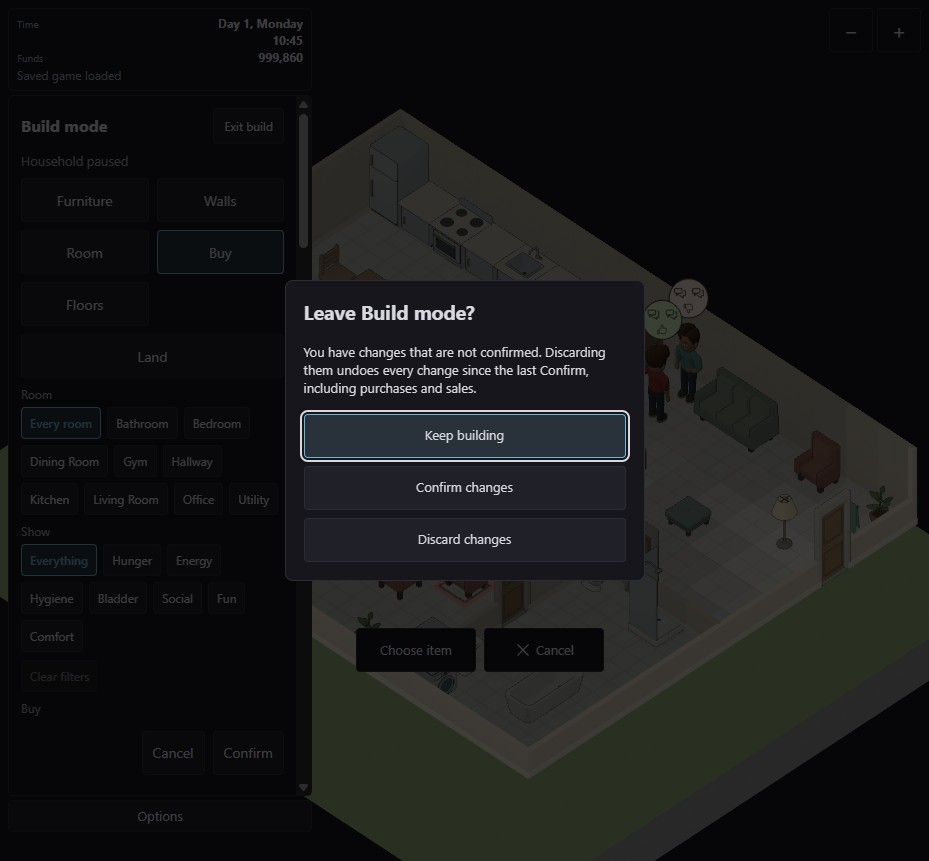
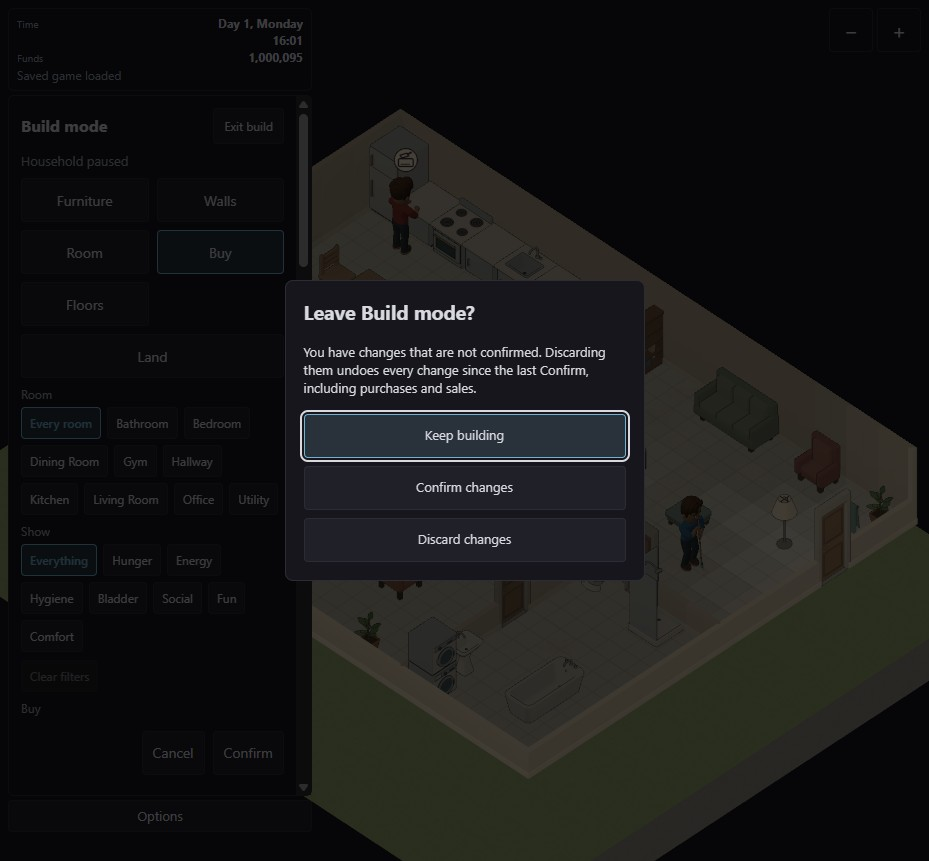
Record the second Build mode exit played pass

diff --git a/docs/evidence/2026-10-17-build-exit/README.md b/docs/evidence/2026-10-17-build-exit/README.md
@@ -1,22 +1,29 @@
 # Build mode exit played pass, 2026-10-17
 
-A played check of the Leave Build mode dialog and the footer's leaving Confirm and Cancel, on the production bundle of branch `twcl/build-exit-confirm` at commit `4d5c16047` (`index-Dy1HfXfB.js`), served by `vite preview` on port 4173 and driven in a Playwright-controlled Chromium window, because the desktop app's browser pane was hidden and could not draw. The household's money came from a schema-thirteen save of the shipped lot with $1,000,000, written into the page's save slot; the game's sound was muted. The game clock ran between steps, so a $120 shift payment arrived partway through, which is why the funds below rise once.
+A played check of the Leave Build mode dialog, the footer's leaving Confirm and Cancel, and the contextual Cancel that clears only the selection, driven in a Playwright-controlled Chromium window because the desktop app's browser pane was hidden and could not draw. The bundles were served by `vite preview` on port 4173. Frames `01` and `03` to `05`, and the steps marked final below, come from branch `twcl/build-exit-confirm` at commit `ac69644ab` (`index-BMzvdbXq.js`, rebuilt from the committed tree with the same file name). Frame `02` and the other steps come from commit `4d5c16047` (`index-Dy1HfXfB.js`); the dialog's markup and styles are unchanged between the two commits. The household's money came from a schema-thirteen save of the shipped lot with $1,000,000, written into the page's save slot; the game's sound was muted. The game clock ran outside Build mode, so a $120 shift payment arrives between some steps, which is why the funds rise.
 
 | Image | Moment | What it shows |
 | --- | --- | --- |
-| `01-exit-dialog-desktop.jpg` | An armchair bought in Build mode, then Exit build, at 929 by 861 | The dialog Leave Build mode? over the dimmed game, its text, and Keep building (focused, outlined), Confirm changes and Discard changes stacked one per row. |
+| `01-exit-dialog-desktop.jpg` | A potted plant bought in Build mode and not confirmed, then Exit build, at 929 by 861 | The dialog Leave Build mode? over the dimmed game, its text, and Keep building (focused, outlined), Confirm changes and Discard changes stacked one per row. |
 | `02-exit-dialog-phone.jpg` | A potted plant bought, then Exit build, at 375 by 812 | The same dialog inside the phone width, 16 pixels from each side, all three buttons full width; the page did not scroll sideways. |
+| `03-context-cancel-keeps-batch.jpg` | A potted plant bought, the Buy tool still showing a new plant's ghost, then the Cancel beside it | Build mode still open with no ghost and no buttons beside it; the bought plant stands in the kitchen; the status reads Choose something to buy.; funds unchanged at 1,000,095. |
+| `04-held-escape.jpg` | Escape held from the game view with the plant pending, after eight key repeats | The dialog open, Keep building focused. |
+| `05-after-double-click-confirm.jpg` | A plant bought, then a double-click on the footer's Confirm | Play mode, the plant kept in the kitchen, funds 1,000,095, and Bill's queue holding only Take a bath: Bathtub, so the second click gave no order. |
 
 Checked in the page, each step observed rather than assumed:
 
-| Step | Result |
-| --- | --- |
-| Exit build with an armchair bought and not confirmed | The dialog opened; focus was on Keep building; Build mode stayed open. |
-| Escape in the dialog | The dialog closed and Build mode stayed open. |
-| Exit build, then Confirm changes | Build mode closed; funds stayed at 999,860, so the armchair was kept. |
-| A potted plant bought ($25), then Exit build, then Discard changes | The dialog opened; Build mode closed; funds returned from 999,955 to 999,980. |
-| A potted plant bought, then the footer's Cancel | Build mode closed with no dialog; funds returned from 999,955 to 999,980. |
-| A potted plant bought, then the footer's Confirm | Build mode closed with no dialog; funds stayed at 999,955. |
-| Build mode entered and left with nothing pending | Build mode closed with no dialog. |
+| Step | Bundle | Result |
+| --- | --- | --- |
+| Exit build with an armchair bought and not confirmed | `4d5c16047` | The dialog opened; focus was on Keep building; Build mode stayed open. |
+| Escape in the dialog | `4d5c16047` | The dialog closed and Build mode stayed open. |
+| Exit build, then Confirm changes | `4d5c16047` | Build mode closed; funds stayed at 999,860, so the armchair was kept. |
+| A potted plant bought ($25), then Exit build, then Discard changes | `4d5c16047` | The dialog opened; Build mode closed; funds returned from 999,955 to 999,980. |
+| A potted plant bought, then the footer's Cancel | `4d5c16047` | Build mode closed with no dialog; funds returned from 999,955 to 999,980. |
+| A potted plant bought, then the footer's Confirm | `4d5c16047` | Build mode closed with no dialog; funds stayed at 999,955. |
+| Build mode entered and left with nothing pending | `4d5c16047` | Build mode closed with no dialog. |
+| A plant bought, then the Cancel beside the next ghost | final | The ghost and its buttons cleared; Build mode stayed open with no dialog; funds stayed at 1,000,095, so the purchase was kept. |
+| Escape held from the game view (focus on the page body), with the plant still pending | final | The first keydown opened the dialog with focus on Keep building; eight repeated keydowns and the key's release left it open; a fresh press closed it as Keep building, with Build mode still open and funds unchanged. |
+| Exit build, then a double-click on Discard changes | final | Build mode closed; funds returned from 1,000,095 to 1,000,120; Bill, selected, kept the same queue (Sleep: Bunk bed) and received no order from the second click, which landed on the game where the dialog had been. |
+| A plant bought, then a double-click on the footer's Confirm | final | Build mode closed; funds stayed at 1,000,095; Bill's queue (Take a bath: Bathtub) was unchanged. |
 
-The console reported only the known missing favicon.
+The console reported only the known missing favicon on the first page load and no errors during the final steps.
